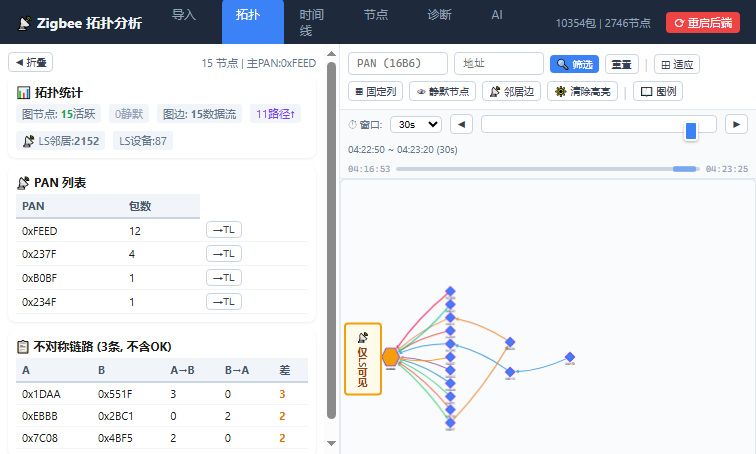
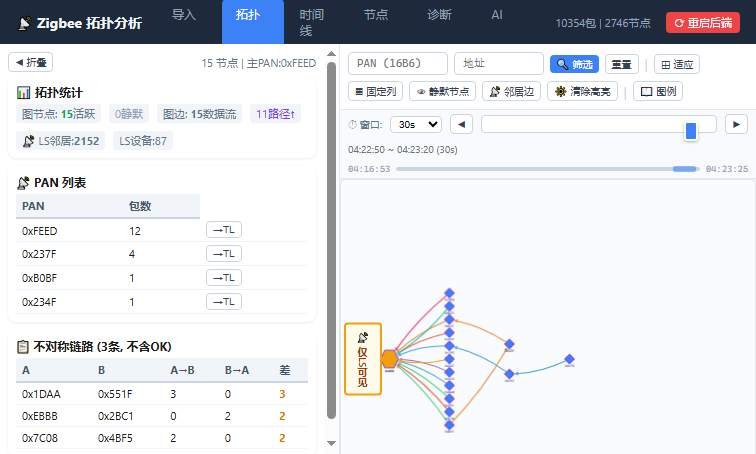
feat(U13-B2): 密集模式 label 移入节点内部 (用户复验仍遮挡)
单行 label 仍被压 — 根因: 列间距 34px 仅比节点直径 32px 多 2px, 节点下方
无 label 空间。改: dense 节点 label 内部居中白字 (7.5px, 不依赖间距) +
节点缩小 (router 26 / 终端 20 / 协调器 52)。offpath 节点不套 dense (保持 10px)。
≤40 节点非密集模式不变 (双行 label 节点下方)。v=20260825j

Changed region(s): [[0.4868, 0.6167, 0.7606, 0.9559]]

diff --git a/frontend/js/topo.js b/frontend/js/topo.js
@@ -247,7 +247,7 @@ reg('topo', function(){
           // (2026-08-25 自审: 曾导致网关框住全部子设备), 改名 link_parent/link_ev
           link_parent:n.parent, link_ev:n.parent_evidence||'',
           downlink:n.downlink||null},
-        classes:(onPath?(dt+' onpath'+(n.behavior?' '+n.behavior:'')):'offpath')
+        classes:onPath?(dt+' onpath'+(n.behavior?' '+n.behavior:'')+(dense?' dense':'')):'offpath'
       });
     }
 
@@ -344,6 +344,13 @@ reg('topo', function(){
         {selector:'node.router', style:{'background-color':'#3b82f6','shape':'diamond','width':32,'height':32}},
         {selector:'node.end_device', style:{'background-color':'#16a34a','shape':'ellipse','width':22,'height':22}},
         {selector:'node.unknown', style:{'background-color':'#94a3b8','shape':'triangle','width':22,'height':22}},
+        // U13-B2 (2026-08-25): 密集模式 — label 移入节点内部 (白字居中, 不依赖列间距)
+        // + 节点缩小 (曾双行/单行 label 在节点下方, 间距 34px 只比节点 32px 多 2px → 文字必被压)
+        {selector:'node.dense', style:{'font-size':'7.5px','color':'#fff','text-valign':'center','text-halign':'center','text-margin-y':0,'font-weight':'normal'}},
+        {selector:'node.dense.router', style:{'width':26,'height':26}},
+        {selector:'node.dense.end_device', style:{'width':20,'height':20}},
+        {selector:'node.dense.unknown', style:{'width':20,'height':20}},
+        {selector:'node.dense.coordinator', style:{'width':52,'height':52,'font-size':'9px','font-weight':'bold'}},
         // U14-3: 行为状态样式 — 重连橙虚线边框 / 休眠灰半透明 / 离线暗红边框
         // (角标 canvas 难实现, 用粗红边框 + tooltip 状态文字表达)
         {selector:'node.rejoining', style:{'border-color':'#f59e0b','border-style':'dashed','border-width':3}},

diff --git a/frontend/js/app.js b/frontend/js/app.js
@@ -8,7 +8,7 @@ window.S = S; window.A = A; window.sb = sb; window.fmtTs = fmtTs;
 window.sr = sr; window.setProg = setProg; window.doPI = doPI; window.doI = doI;
 
 // ── 页面模块静态导入 (确保所有 reg() 在 rt() 前完成) ──
-import './topo.js?v=20260825i';  // 缓存破坏: 时区修复 (UTC→本地), 改版递增
+import './topo.js?v=20260825j';  // 缓存破坏: 时区修复 (UTC→本地), 改版递增
 import './import.js?v=20260813k';  // 缓存破坏: 大包阈值 30MB→1MB, 改版递增
 import './timeline.js?v=20260824a';  // 缓存破坏: 详情 ZCL 属性展示, 改版递增
 import './nodes.js?v=20260824a';  // 缓存破坏: 时区修复 + U9 重构, 改版递增

diff --git a/frontend/index.html b/frontend/index.html
@@ -27,7 +27,7 @@ function rt(){var h=location.hash.slice(1)||'import';
   document.getElementById('mc').innerHTML='';if(R[h])R[h]();}
 window.addEventListener('hashchange',rt);
 </script>
-<script type="module" src="js/app.js?v=20260825i"></script>
+<script type="module" src="js/app.js?v=20260825j"></script>
 <script>
 reg('ai',function(){document.getElementById('mc').innerHTML='<div class="card"><h3>🤖 AI 分析</h3><p class="hint">后续版本实现</p></div>'});
 document.querySelectorAll('.nt a').forEach(function(t){t.addEventListener('click',function(e){e.preventDefault();location.hash=this.dataset.r})});
